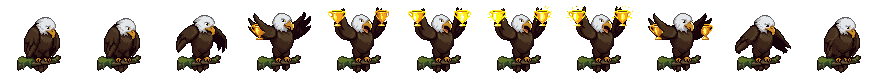
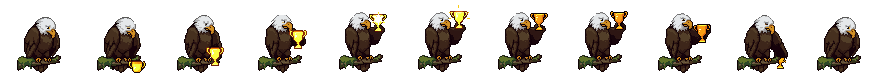
Use trophy variant C (seed 313) for the achievement animation

diff --git a/scripts/build-eagle-sprites.py b/scripts/build-eagle-sprites.py
@@ -6,8 +6,8 @@
   pixellab-celebrate.png      PixelLab animation from the awake frame: wing-flap (8 x 80x80); no longer
                               shown, but still part of the shared palette and frame size
   pixellab-celebrate-cheer.png PixelLab animation from the awake frame: victory cheer, wings flung up (10 x 80x80)
-  pixellab-trophy.png         PixelLab animation from the awake frame: raises gold trophies, they gleam (11 x 80x80;
-                              variant B, seed 312, of pixellab-trophy-{a,b,c}_N.png)
+  pixellab-trophy.png         PixelLab animation from the awake frame: lifts a gold trophy, it gleams (11 x 80x80;
+                              variant C, seed 313, of pixellab-trophy-{a,b,c}_N.png)
   pixellab-pet.png            PixelLab animation from the awake frame: happy head-bob (8 x 80x80)
   pixellab-fallasleep.png     PixelLab animation, awake frame -> sleep frame 1: a yawn, then the head sinks (8 x 80x80)
   pixellab-wakeup.png         PixelLab animation, sleep frame 1 -> awake frame: head up, wing stretch (8 x 80x80)
